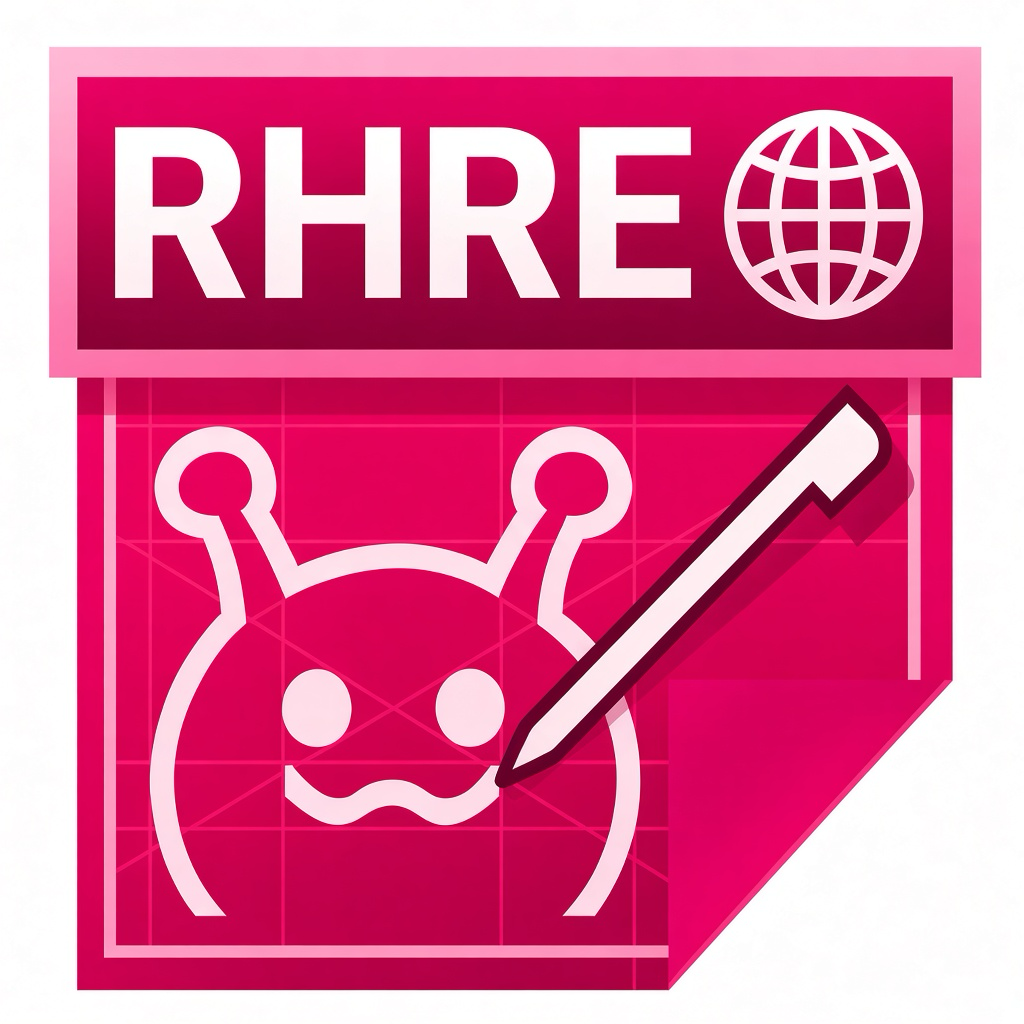
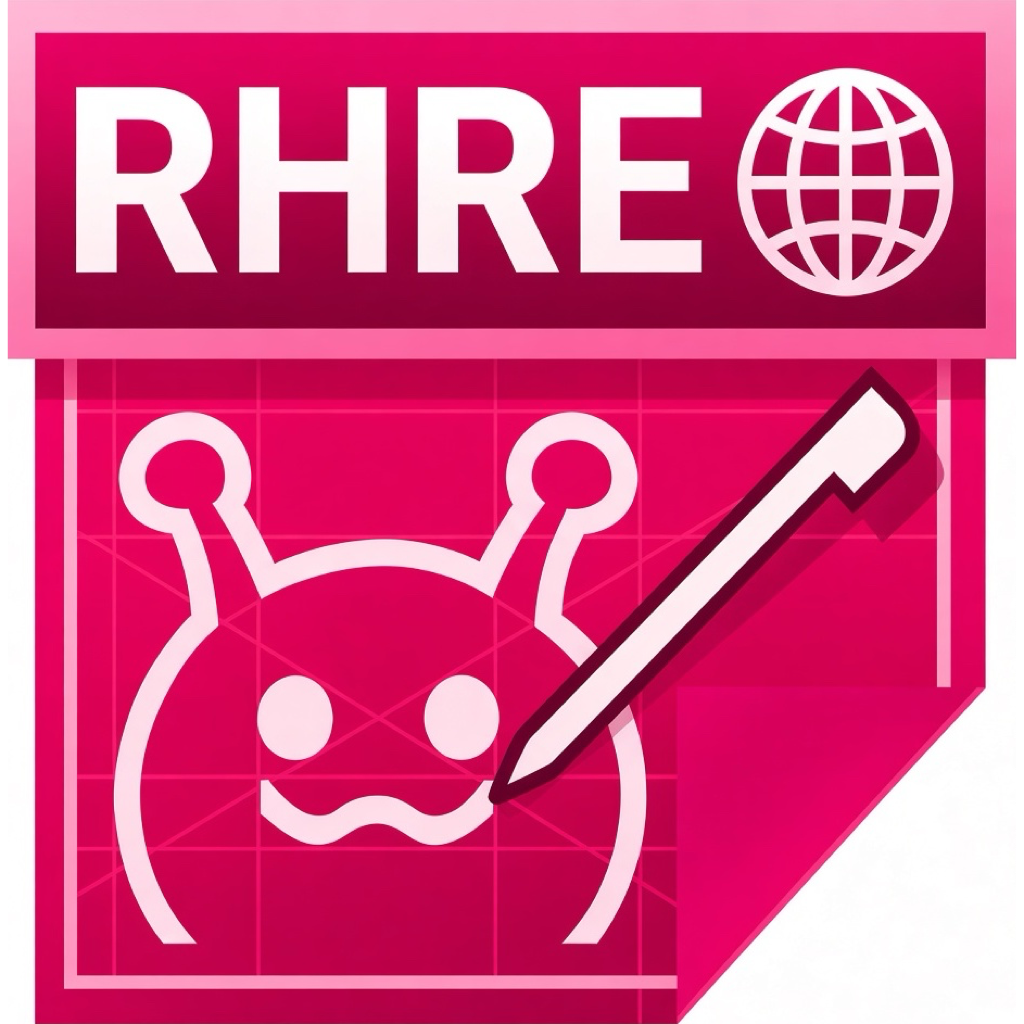
アイコンを新しい版に差し替え (2.9)

diff --git a/index.html b/index.html
@@ -8,7 +8,7 @@
 <meta name="apple-mobile-web-app-status-bar-style" content="black-translucent">
 <meta name="apple-mobile-web-app-title" content="RHRE Web">
 <title>RHRE Web</title>
-<link rel="manifest" href="manifest.webmanifest?v=2">
+<link rel="manifest" href="manifest.webmanifest?v=3">
 <script>
   // ブラウザで開いたスマホには案内を出す：iPhone はホーム画面に追加するまで使えない、Android は全画面にしてから
   (function () {
@@ -19,9 +19,9 @@
     else if (/Android/.test(ua)) h.classList.add('gate-android');
   })();
 </script>
-<link rel="apple-touch-icon" href="icons/icon-180.png?v=2">
-<link rel="icon" type="image/png" sizes="32x32" href="icons/favicon-32.png?v=2">
-<link rel="icon" type="image/png" sizes="192x192" href="icons/icon-192.png?v=2">
+<link rel="apple-touch-icon" href="icons/icon-180.png?v=3">
+<link rel="icon" type="image/png" sizes="32x32" href="icons/favicon-32.png?v=3">
+<link rel="icon" type="image/png" sizes="192x192" href="icons/icon-192.png?v=3">
 <link rel="preconnect" href="https://fonts.googleapis.com">
 <link rel="preconnect" href="https://fonts.gstatic.com" crossorigin>
 <link rel="stylesheet" href="https://fonts.googleapis.com/css2?family=M+PLUS+Rounded+1c:wght@500;700;800&display=swap">
@@ -499,7 +499,7 @@
 </head>
 <body>
 <div id="gate" role="dialog" aria-modal="true" aria-labelledby="gateTitle">
-  <img class="g-icon" src="icons/icon-180.png?v=2" alt="">
+  <img class="g-icon" src="icons/icon-180.png?v=3" alt="">
   <div class="g-col g-ios">
     <h1 id="gateTitle">ホーム画面に追加して使ってください</h1>
     <p>iPhone では、ホーム画面に追加すると全画面で開き、音も安定して鳴ります。</p>
@@ -639,7 +639,7 @@
       <button class="pkey akey" data-key="A" aria-label="A">A</button>
     </div>
   </section>
-  <footer id="status"><span id="statusText">読み込み中…</span><span id="version">RHRE Web 試作 2.8</span></footer>
+  <footer id="status"><span id="statusText">読み込み中…</span><span id="version">RHRE Web 試作 2.9</span></footer>
 </div>
 
 <div class="popover" id="snapMenu" hidden role="menu" aria-label="スナップ"></div>
@@ -854,6 +854,6 @@
 <input type="file" id="musicInput" accept="audio/*,.mp3,.ogg,.wav,.m4a,.aac,.flac" hidden>
 <input type="file" id="imageInput" accept="image/*" hidden>
 <input type="file" id="customInput" accept="audio/*,.mp3,.ogg,.wav,.m4a,.aac,.flac" multiple hidden>
-<script type="module" src="js/app.js?v=31"></script>
+<script type="module" src="js/app.js?v=32"></script>
 </body>
 </html>

diff --git a/js/app.js b/js/app.js
@@ -6,7 +6,7 @@ import { EditorView, fmtTime, LABELS, applyTheme } from './view.js?v=18';
 import { makeZip } from './zip.js?v=4';
 import { PLAYALONG_GAME_ID, PlayalongJudge, WINDOW } from './playalong.js?v=2';
 
-const VERSION = '2.8';
+const VERSION = '2.9';
 const t2 = t; // ループの変数名 t と重ならないように
 const CUSTOM_GAME_ID = 'custom_web';
 const $ = (id) => document.getElementById(id);
